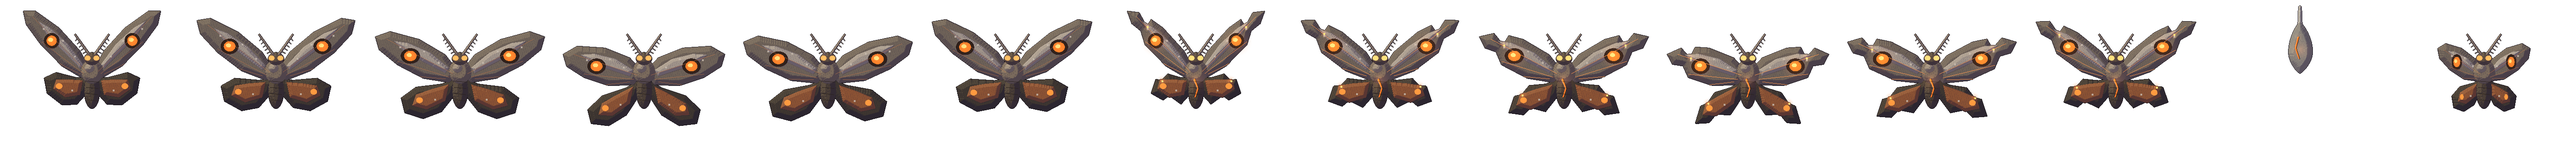
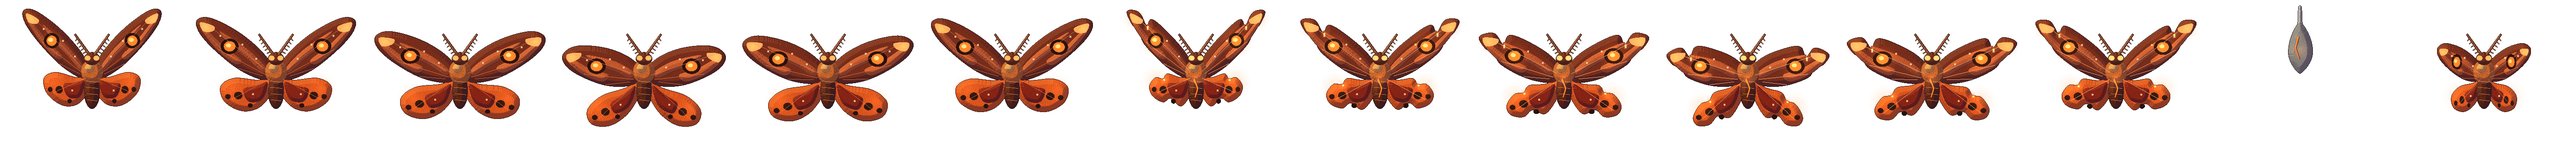
Ashen Cocoon moth: smooth curved wings and fire-moth colours
Wing outlines were drawn as raw polygons, so the tips looked straight
and faceted; they are now closed Catmull-Rom splines. The grey,
stone-like palette becomes a firemoth: scorched red forewings with
flame bands and glowing tips, blazing orange hindwings with dark spots,
and ember-coloured fur.

Claude-Session: https://claude.ai/code/session_015bTXkb4q3SzK7wZ8JdbtYP

Changed region(s): [[0.0, 0.0625, 0.875, 0.875], [0.9375, 0.2812, 1.0, 0.75]]

diff --git a/tools/mkbossrig.py b/tools/mkbossrig.py
@@ -403,7 +403,8 @@ def organ_parts(f):
 
 # ===== 잿빛 고치(corrupt_heart 자리) — 천장에 실로 매달린 거대 번데기 → 2막에 갈라져 불나방이 난다 =====
 SILK, SILK_D, SILK_L = '#8a847c', '#5e5952', '#b4ada2'      # 재가 엉긴 실
-MOTH, MOTH_D, MOTH_L = '#6e6258', '#3e3630', '#a0948a'      # 잿빛 날개
+MOTH, MOTH_D, MOTH_L = '#7a2e1a', '#3e1a12', '#c8582a'      # 불나방 앞날개 — 그을린 붉은 갈색 · 그늘 · 불꽃 띠
+HINDC, HINDC_L = '#e0561c', '#ff9a3a'                       # 뒷날개 — 타오르는 주홍
 FIRE, FIRE_H = '#ff7a2a', '#ffd27a'                          # 날개 눈 무늬 · 속불
 
 
@@ -491,6 +492,17 @@ def wing_pts(pts, hx, hy, a, side):
     return out
 
 
+def spline(pts, n=6):
+    """닫힌 캣멀롬 곡선 — 날개 윤곽을 꺾인 점이 아니라 매끄러운 곡선으로(곧은 날개 끝이 각져 보였다)"""
+    out, m = [], len(pts)
+    for i in range(m):
+        p0, p1, p2, p3 = pts[i - 1], pts[i], pts[(i + 1) % m], pts[(i + 2) % m]
+        for k in range(n):
+            t = k / n; t2, t3 = t * t, t * t * t
+            out.append(tuple(0.5 * (2 * p1[j] + (-p0[j] + p2[j]) * t + (2 * p0[j] - 5 * p1[j] + 4 * p2[j] - p3[j]) * t2 + (-p0[j] + 3 * p1[j] - 3 * p2[j] + p3[j]) * t3) for j in (0, 1)))
+    return out
+
+
 FORE = [(0, 0), (8, -10), (22, -18), (38, -22), (46, -19), (44, -12), (34, -4), (20, 3), (6, 5)]        # 앞날개(오른쪽 · 경첩 (0, 0) 기준)
 HIND = [(0, 2), (10, 6), (24, 8), (32, 14), (30, 22), (20, 25), (10, 21), (3, 12)]                        # 뒷날개
 
@@ -511,46 +523,53 @@ def moth_frame(f):
     a = -0.15 if dive else (0.95, 0.55, 0.05, -0.45, -0.1, 0.5)[f % 6]
     fold = 0.55 if dive else 1.0
     for side in (-1, 1):
-        def tr(pts, dx=0, dy=0):
-            return wing_pts([(cx + side * (x * fold + dx), cy + y * (0.8 if dive else 1) + dy) for (x, y) in pts], cx, cy, a, side)
-        hind = HIND if not torn else [(0, 2), (10, 6), (19, 7), (23, 12), (27, 13), (30, 22), (22, 23), (18, 19), (10, 21), (3, 12)]
-        fore = FORE if not torn else [(0, 0), (8, -10), (22, -18), (30, -20), (33, -15), (38, -21), (46, -19), (43, -13), (37, -11), (34, -4), (20, 3), (6, 5)]
-        F.part('cloth', MOTH_D, bevel=3).poly(tr(hind))
-        F.part('cloth', '#8a5234', bevel=2).poly(tr([(6, 6), (16, 9), (24, 12), (26, 18), (18, 20), (8, 15)]))   # 뒷날개 안쪽 — 그을린 주홍
+        def tr(pts, smooth=True):
+            q = wing_pts([(cx + side * x * fold, cy + y * (0.8 if dive else 1)) for (x, y) in pts], cx, cy, a, side)
+            return spline(q) if smooth else q
+        hind = HIND if not torn else [(0, 2), (10, 6), (19, 7), (22, 11), (27, 12), (31, 18), (29, 23), (22, 24), (17, 20), (10, 22), (3, 12)]
+        fore = FORE if not torn else [(0, 0), (8, -10), (22, -18), (30, -20), (33, -15), (38, -21), (46, -19), (43, -13), (38, -10), (34, -4), (20, 3), (6, 5)]
+        F.glow(*tr([(26, 14)], False)[0], 10, HINDC_L, 0.25 + torn * 0.1)                 # 뒷날개가 안에서 비친다
+        F.part('cloth', HINDC, bevel=3).poly(tr(hind))
+        F.part('cloth', '#8a2414', bevel=2).poly(tr([(5, 6), (13, 10), (19, 13), (16, 19), (8, 16)]))      # 뒷날개 밑동 — 그을린 붉음
+        for (x, y, r) in ((22, 17, 2.4), (28, 19, 1.6), (15, 21, 1.4)):                    # 뒷날개 검은 점
+            px, py = tr([(x, y)], False)[0]; F.part('cloth', '#2a120c', flat=True).ell(px, py, r * fold * (0.55 + 0.45 * math.cos(a)), r * 0.85)
         F.part('cloth', MOTH, bevel=3).poly(tr(fore))
-        F.part('cloth', MOTH_L, bevel=2).poly(tr([(6, -3), (16, -11), (28, -16), (36, -17), (30, -11), (18, -5), (8, 0)]))   # 앞날개 앞 가장자리 — 빛 받는 결
-        for (x0, y0, x1, y1) in ((4, 0, 40, -18), (6, 2, 34, -6), (8, 3, 22, 2)):   # 날개맥 — 속불이 비친다
-            p0, p1 = tr([(x0, y0)])[0], tr([(x1, y1)])[0]
-            fine(F, p0, p1, '#ff9a50' if torn else '#c8784a', 220 if torn else 150)
-        ex, ey = tr([(27, -9)])[0]                           # 눈 무늬 — 불씨 눈
-        F.part('cloth', '#2a1e18', flat=True).ell(ex, ey, 5.2 * fold * (0.55 + 0.45 * math.cos(a)), 4.2)
-        F.part('glow', FIRE, glow=True).ell(ex, ey, 3.4 * fold * (0.55 + 0.45 * math.cos(a)), 2.8)
+        for band in ([(6, -2), (15, -9), (26, -14), (33, -16), (27, -10), (16, -4), (8, 1)],      # 불꽃 띠 — 앞 가장자리에서 날개 끝으로 번진다
+                     [(20, -3), (30, -8), (40, -15), (43, -14), (35, -6), (24, 0)]):
+            F.part('cloth', MOTH_L, bevel=2).poly(tr(band))
+        F.part('glow', '#ffb060', glow=True).poly(tr([(36, -18), (44, -18.5), (42.5, -14), (37, -15)]))   # 날개 끝 — 불이 타오르는 가장자리
+        F.glow(*tr([(41, -16.5)], False)[0], 5 + torn * 2, FIRE, 0.45)
+        for (x0, y0, x1, y1) in ((4, 0, 40, -18), (6, 2, 34, -6), (8, 3, 22, 2), (4, 4, 26, 20)):   # 날개맥 — 속불이 비친다
+            p0, p1 = tr([(x0, y0)], False)[0], tr([(x1, y1)], False)[0]
+            fine(F, p0, p1, '#ffb070' if torn else '#ff8a4a', 230 if torn else 170)
+        ex, ey = tr([(27, -9)], False)[0]                       # 눈 무늬 — 불씨 눈
+        sq = fold * (0.55 + 0.45 * math.cos(a))
+        F.part('cloth', '#1e0c08', flat=True).ell(ex, ey, 5.2 * sq, 4.2)
+        F.part('glow', FIRE, glow=True).ell(ex, ey, 3.4 * sq, 2.8)
         F.part('glow', FIRE_H, glow=True).ell(ex - 0.6, ey - 0.5, 1.4 * fold, 1.1)
-        F.glow(ex, ey, 6 + torn * 3, FIRE, 0.35 + torn * 0.15)
-        hx2, hy2 = tr([(22, 15)])[0]
-        F.part('glow', '#ff9a40', glow=True).ell(hx2, hy2, 1.8 * fold, 1.6)
-        for (x, y) in ((12, -6), (20, -12), (33, -14), (14, 14)):   # 인분 — 잿빛 위 밝은 점
-            px, py = tr([(x, y)])[0]; F.px(px, py, '#c8bcb0', 200)
+        F.glow(ex, ey, 7 + torn * 3, FIRE, 0.4 + torn * 0.15)
+        for (x, y) in ((12, -6), (20, -12), (33, -14), (14, 14)):   # 인분 — 반짝이는 점
+            px, py = tr([(x, y)], False)[0]; F.px(px, py, '#ffd8a0', 210)
         if torn:                                             # 찢긴 자리 끝에서 불씨가 샌다
-            for (x, y) in ((33, -15), (23, 12)):
-                px, py = tr([(x, y)])[0]; F.glow(px, py, 3, FIRE, 0.5); F.px(px, py, FIRE_H)
+            for (x, y) in ((33, -15), (22, 11)):
+                px, py = tr([(x, y)], False)[0]; F.glow(px, py, 3, FIRE, 0.55); F.px(px, py, FIRE_H)
     # 몸통 — 털 많은 가슴 · 마디진 배 · 깃털 더듬이
-    F.part('flesh', '#4a3e36', bevel=3).ell(cx, cy + 9, 4.2, 10)                     # 배
+    F.part('flesh', '#5a2414', bevel=3).ell(cx, cy + 9, 4.2, 10)                     # 배
     for k in range(4):
-        fine(F, (cx - 3.6 + k * 0.3, cy + 4 + k * 3.4), (cx + 3.6 - k * 0.3, cy + 4.6 + k * 3.4), '#2a221c', 220)
-    F.part('flesh', '#7a6a5c', bevel=3).ell(cx, cy - 1, 6, 6.5)                      # 털 많은 가슴
-    F.part('flesh', '#9a8a7a', bevel=2).ell(cx - 1.4, cy - 3, 2.6, 2.4)
-    F.part('flesh', '#5a4c40', bevel=2).ell(cx, cy - 8, 4.2, 3.4)                    # 머리
+        fine(F, (cx - 3.6 + k * 0.3, cy + 4 + k * 3.4), (cx + 3.6 - k * 0.3, cy + 4.6 + k * 3.4), '#ff8a40', 200)
+    F.part('flesh', '#c8642a', bevel=3).ell(cx, cy - 1, 6, 6.5)                      # 털 많은 가슴 — 불티 색 털
+    F.part('flesh', '#f0a050', bevel=2).ell(cx - 1.4, cy - 3, 2.6, 2.4)
+    F.part('flesh', '#6a2a16', bevel=2).ell(cx, cy - 8, 4.2, 3.4)                    # 머리
     for s2 in (-1, 1):
         F.part('glow', FIRE_H if torn else '#ffb060', glow=True).ell(cx + s2 * 2.4, cy - 8.4, 1.6, 1.4)   # 겹눈 — 불빛을 쫓는 눈
         F.glow(cx + s2 * 2.4, cy - 8.4, 3, FIRE, 0.4)
         ax0, ay0 = cx + s2 * 1.6, cy - 10.5
         ax1, ay1 = cx + s2 * 9, cy - 21
-        F.part('cloth', '#8a7a6a', bevel=0.8).cap(ax0, ay0, ax1, ay1, 0.6, 0.4)
+        F.part('cloth', '#a0502a', bevel=0.8).cap(ax0, ay0, ax1, ay1, 0.6, 0.4)
         for k in range(1, 6):                                # 깃털 더듬이의 빗살
             t = k / 6
             px, py = ax0 + (ax1 - ax0) * t, ay0 + (ay1 - ay0) * t
-            fine(F, (px, py), (px + s2 * 2.2 * (1 - t * 0.5), py + 1.2), '#a0907e', 210)
+            fine(F, (px, py), (px + s2 * 2.2 * (1 - t * 0.5), py + 1.2), '#e0884a', 210)
     if torn:
         crack(F, [(cx - 1, cy + 3), (cx + 1, cy + 8), (cx - 0.5, cy + 13)], 0.5, FIRE)
         F.glow(cx, cy + 4, 8, FIRE, 0.35)

diff --git a/docs/code-history.md b/docs/code-history.md
@@ -2304,3 +2304,5 @@
 - 그림: 고치 8장(46×80 설계 칸 — 멀쩡 · 금 · 갈라짐 · 빈 허물) · 나방 조각 14장(100×80 — 날갯짓 6 · 찢긴 날개 6 · 번데기 · 돌진). 날갯짓은 앞에서 본 날개라 경첩에서 멀수록 위아래로 기울이고 가로를 cos 로 줄인다(`wing_pts`).
   ★ 처음 굽기는 고치의 빛 · 그늘 결을 겹친 판으로 칠해 각진 판처럼 보였다 — 감긴 실 결(굽이치고 군데군데 끊긴 1px 선)로 바꿨다. 허물 자락 끝을 가늘게 뻗으면 가시로 읽혔다 — 찢긴 날에서 늘어진 실로.
 - `scales` 는 판결석 저울 기술 이름이라 인분 기술은 `dust` 로 — 고유 기술 이름이 겹치면 뒤엣것이 SIG_TELL · sigStart 를 가로챈다.
+- (덧, 사용자 지적 2026-10-23 — 날개 끝이 직선으로 각지고, 불나방보다 돌나방 같다) 날개 윤곽을 꺾인 점 그대로 칠하지 않고 닫힌 캣멀롬 곡선(`spline`)으로 매끄럽게 ·
+  색을 잿빛에서 그을린 붉은 앞날개 · 타오르는 주홍 뒷날개(검은 점) · 앞 가장자리의 불꽃 띠 · 빛나는 날개 끝 · 불티 색 털로. ★ 잿빛 날개로 되돌리면 고치 허물과 같은 돌빛이 되어 '불'이 읽히지 않는다.
